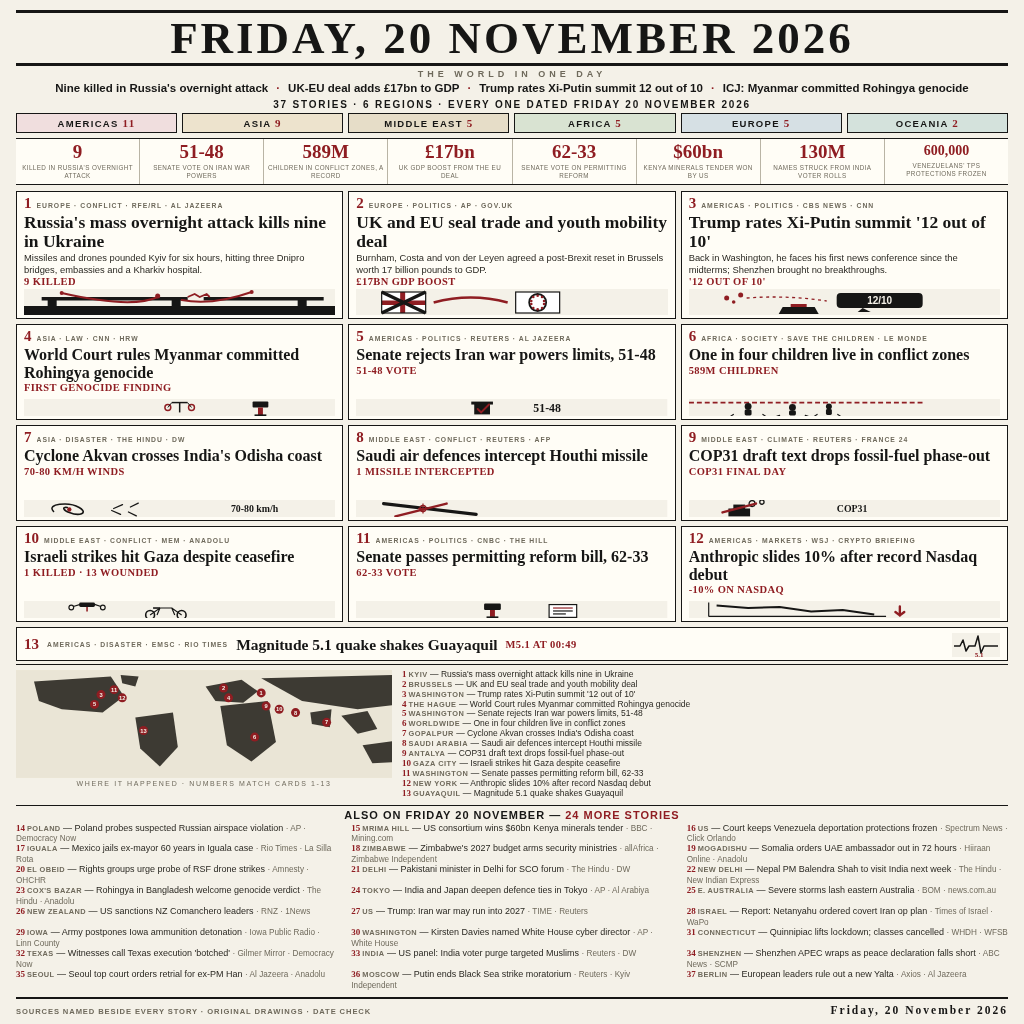
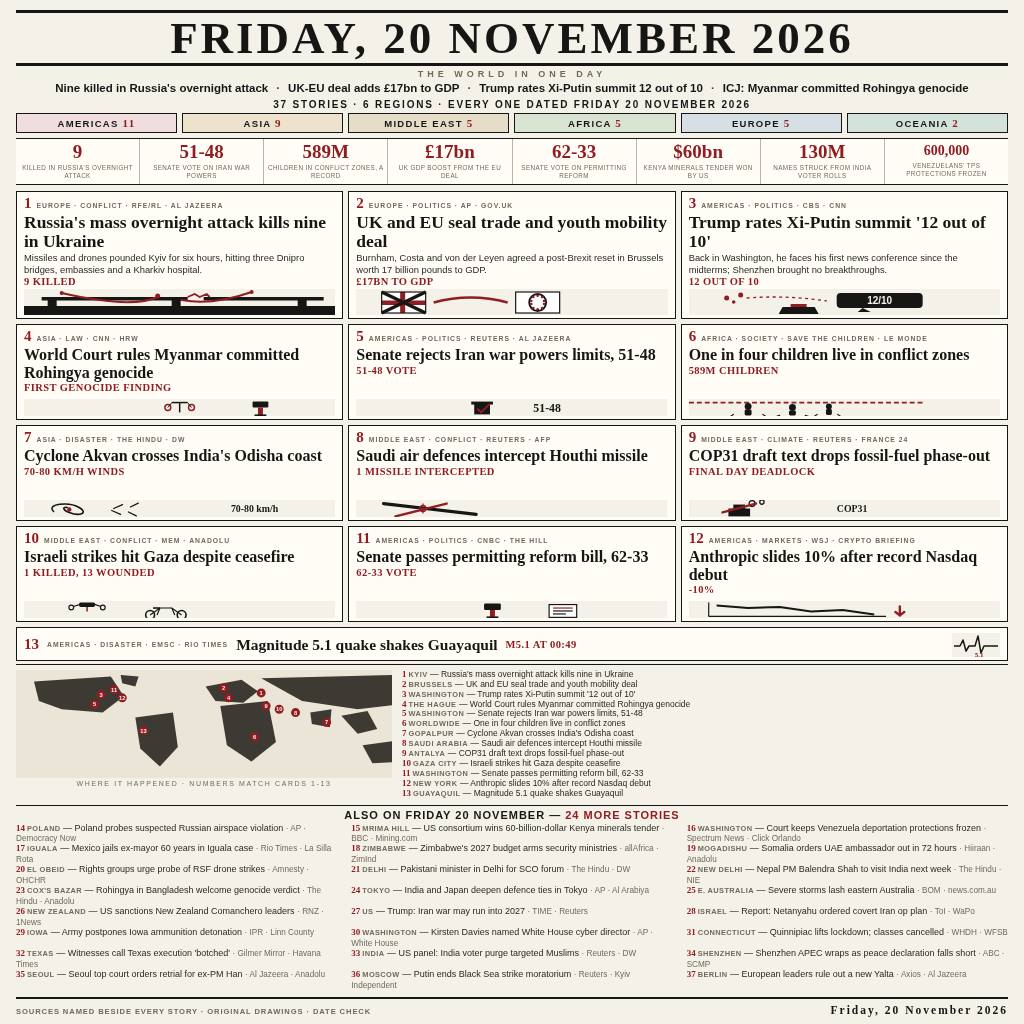
align page labels with enriched data; re-render entry.png

diff --git a/app/index.html b/app/index.html
@@ -156,16 +156,16 @@
       <div class="head"><span class="num">2</span><span class="kick">Europe &#183; Politics &#183; AP &#183; GOV.UK</span></div>
       <h2>UK and EU seal trade and youth mobility deal</h2>
       <p>Burnham, Costa and von der Leyen agreed a post-Brexit reset in Brussels worth 17 billion pounds to GDP.</p>
-      <div class="spec">&#163;17BN GDP BOOST</div>
+      <div class="spec">&#163;17BN TO GDP</div>
       <div class="art"><svg viewBox="0 0 316 26" preserveAspectRatio="xMidYMid slice"><rect width="316" height="26" fill="#f4f1e8"/><rect x="28" y="3" width="44" height="21" fill="#fff"/><rect x="28" y="11.5" width="44" height="4.5" fill="#8f1d22"/><rect x="46.5" y="3" width="5" height="21" fill="#8f1d22"/><path d="M28 3 l44 21 M72 3 l-44 21" stroke="#161615" stroke-width="3.5"/><rect x="28" y="3" width="44" height="21" fill="none" stroke="#161615" stroke-width="1.2"/><path d="M80 13.5 C104 7 130 7 154 13.5" stroke="#8f1d22" stroke-width="2.5" fill="none"/><rect x="162" y="3" width="44" height="21" fill="#fff"/><rect x="162" y="3" width="44" height="21" fill="none" stroke="#161615" stroke-width="1.2"/><circle cx="184" cy="13.5" r="8.5" fill="none" stroke="#161615" stroke-width="1.8"/><g fill="#8f1d22"><circle cx="184" cy="6.8" r="1.3"/><circle cx="188.4" cy="8" r="1.3"/><circle cx="190.4" cy="12" r="1.3"/><circle cx="190.4" cy="15" r="1.3"/><circle cx="188.4" cy="19" r="1.3"/><circle cx="184" cy="20.2" r="1.3"/><circle cx="179.6" cy="19" r="1.3"/><circle cx="177.6" cy="15" r="1.3"/><circle cx="177.6" cy="12" r="1.3"/><circle cx="179.6" cy="8" r="1.3"/></g></svg></div>
     </div>
 
     <!-- 3 -->
     <div class="card lead">
-      <div class="head"><span class="num">3</span><span class="kick">Americas &#183; Politics &#183; CBS News &#183; CNN</span></div>
+      <div class="head"><span class="num">3</span><span class="kick">Americas &#183; Politics &#183; CBS &#183; CNN</span></div>
       <h2>Trump rates Xi-Putin summit '12 out of 10'</h2>
       <p>Back in Washington, he faces his first news conference since the midterms; Shenzhen brought no breakthroughs.</p>
-      <div class="spec">'12 OUT OF 10'</div>
+      <div class="spec">12 OUT OF 10</div>
       <div class="art"><svg viewBox="0 0 316 26" preserveAspectRatio="xMidYMid slice"><rect width="316" height="26" fill="#f4f1e8"/><path d="M96 18 L128 18 L132 25 L92 25 Z" fill="#161615"/><rect x="104" y="15" width="16" height="3" fill="#8f1d22"/><rect x="150" y="4" width="86" height="15" rx="4" fill="#161615"/><path d="M176 19 L171 23 L184 23 Z" fill="#161615"/><text x="193" y="15" font-family="Arial" font-size="10" font-weight="bold" fill="#f4f1e8" text-anchor="middle">12/10</text><g fill="#8f1d22"><circle cx="40" cy="9" r="2.5"/><circle cx="54" cy="6" r="2.5"/><circle cx="47" cy="13" r="1.8"/></g><path d="M60 9 q40 -3 80 3" stroke="#8f1d22" stroke-width="1.3" stroke-dasharray="3 3.5" fill="none"/></svg></div>
     </div>
 
@@ -213,7 +213,7 @@
     <div class="card">
       <div class="head"><span class="num">9</span><span class="kick">Middle East &#183; Climate &#183; Reuters &#183; France 24</span></div>
       <h2>COP31 draft text drops fossil-fuel phase-out</h2>
-      <div class="spec">COP31 FINAL DAY</div>
+      <div class="spec">FINAL DAY DEADLOCK</div>
       <div class="art"><svg viewBox="0 0 316 18" preserveAspectRatio="xMidYMid slice"><rect width="316" height="18" fill="#f4f1e8"/><rect x="40" y="9" width="22" height="8" fill="#161615"/><rect x="45" y="5" width="12" height="6" fill="#161615"/><circle cx="64" cy="4" r="3" fill="none" stroke="#161615" stroke-width="1.3"/><circle cx="74" cy="2.5" r="2.2" fill="none" stroke="#161615" stroke-width="1.3"/><line x1="34" y1="13" x2="68" y2="4" stroke="#8f1d22" stroke-width="2.4" stroke-linecap="round"/><text x="150" y="13" font-family="Georgia" font-size="10" font-weight="bold" fill="#161615">COP31</text></svg></div>
     </div>
 
@@ -221,7 +221,7 @@
     <div class="card">
       <div class="head"><span class="num">10</span><span class="kick">Middle East &#183; Conflict &#183; MEM &#183; Anadolu</span></div>
       <h2>Israeli strikes hit Gaza despite ceasefire</h2>
-      <div class="spec">1 KILLED &#183; 13 WOUNDED</div>
+      <div class="spec">1 KILLED, 13 WOUNDED</div>
       <div class="art"><svg viewBox="0 0 316 18" preserveAspectRatio="xMidYMid slice"><rect width="316" height="18" fill="#f4f1e8"/><rect x="56" y="2" width="16" height="4.5" rx="1.5" fill="#161615"/><line x1="58" y1="3.5" x2="50" y2="6" stroke="#161615" stroke-width="1.2"/><line x1="71" y1="3.5" x2="78" y2="6" stroke="#161615" stroke-width="1.2"/><circle cx="48" cy="7" r="2.4" fill="none" stroke="#161615" stroke-width="1.2"/><circle cx="80" cy="7" r="2.4" fill="none" stroke="#161615" stroke-width="1.2"/><line x1="64" y1="6.5" x2="64" y2="11" stroke="#8f1d22" stroke-width="1.6"/><circle cx="128" cy="14.5" r="4.5" fill="none" stroke="#161615" stroke-width="1.6"/><circle cx="160" cy="14.5" r="4.5" fill="none" stroke="#161615" stroke-width="1.6"/><path d="M128 14.5 L138 7.5 L150 7.5 L160 14.5 M138 7.5 L135 14.5 M150 7.5 L153 14.5" stroke="#161615" stroke-width="1.2" fill="none"/><line x1="138" y1="7.5" x2="131" y2="7.5" stroke="#161615" stroke-width="1.6"/></svg></div>
     </div>
 
@@ -237,7 +237,7 @@
     <div class="card">
       <div class="head"><span class="num">12</span><span class="kick">Americas &#183; Markets &#183; WSJ &#183; Crypto Briefing</span></div>
       <h2>Anthropic slides 10% after record Nasdaq debut</h2>
-      <div class="spec">-10% ON NASDAQ</div>
+      <div class="spec">-10%</div>
       <div class="art"><svg viewBox="0 0 316 18" preserveAspectRatio="xMidYMid slice"><rect width="316" height="18" fill="#f4f1e8"/><line x1="20" y1="2" x2="20" y2="16" stroke="#161615" stroke-width="1.2"/><line x1="20" y1="16" x2="200" y2="16" stroke="#161615" stroke-width="1.2"/><polyline points="28,5 60,7.5 92,6.5 124,11 156,9.5 188,14" fill="none" stroke="#161615" stroke-width="2" stroke-linejoin="round"/><path d="M214 6 L214 15 M214 15 l-4.5 -3.5 M214 15 l4.5 -3.5" stroke="#8f1d22" stroke-width="2.4" fill="none" stroke-linecap="round" stroke-linejoin="round"/></svg></div>
     </div>
 
@@ -308,26 +308,26 @@
     <div class="cap">Also on Friday 20 November &#8212; <em>24 more stories</em></div>
     <div class="dense">
       <div class="ditem"><span class="n">14</span><span class="l">Poland</span> &#8212; Poland probes suspected Russian airspace violation <span class="s">&#183; AP &#183; Democracy Now</span></div>
-      <div class="ditem"><span class="n">15</span><span class="l">Mrima Hill</span> &#8212; US consortium wins $60bn Kenya minerals tender <span class="s">&#183; BBC &#183; Mining.com</span></div>
-      <div class="ditem"><span class="n">16</span><span class="l">US</span> &#8212; Court keeps Venezuela deportation protections frozen <span class="s">&#183; Spectrum News &#183; Click Orlando</span></div>
+      <div class="ditem"><span class="n">15</span><span class="l">Mrima Hill</span> &#8212; US consortium wins 60-billion-dollar Kenya minerals tender <span class="s">&#183; BBC &#183; Mining.com</span></div>
+      <div class="ditem"><span class="n">16</span><span class="l">Washington</span> &#8212; Court keeps Venezuela deportation protections frozen <span class="s">&#183; Spectrum News &#183; Click Orlando</span></div>
       <div class="ditem"><span class="n">17</span><span class="l">Iguala</span> &#8212; Mexico jails ex-mayor 60 years in Iguala case <span class="s">&#183; Rio Times &#183; La Silla Rota</span></div>
-      <div class="ditem"><span class="n">18</span><span class="l">Zimbabwe</span> &#8212; Zimbabwe's 2027 budget arms security ministries <span class="s">&#183; allAfrica &#183; Zimbabwe Independent</span></div>
-      <div class="ditem"><span class="n">19</span><span class="l">Mogadishu</span> &#8212; Somalia orders UAE ambassador out in 72 hours <span class="s">&#183; Hiiraan Online &#183; Anadolu</span></div>
+      <div class="ditem"><span class="n">18</span><span class="l">Zimbabwe</span> &#8212; Zimbabwe's 2027 budget arms security ministries <span class="s">&#183; allAfrica &#183; ZimInd</span></div>
+      <div class="ditem"><span class="n">19</span><span class="l">Mogadishu</span> &#8212; Somalia orders UAE ambassador out in 72 hours <span class="s">&#183; Hiiraan &#183; Anadolu</span></div>
       <div class="ditem"><span class="n">20</span><span class="l">El Obeid</span> &#8212; Rights groups urge probe of RSF drone strikes <span class="s">&#183; Amnesty &#183; OHCHR</span></div>
       <div class="ditem"><span class="n">21</span><span class="l">Delhi</span> &#8212; Pakistani minister in Delhi for SCO forum <span class="s">&#183; The Hindu &#183; DW</span></div>
-      <div class="ditem"><span class="n">22</span><span class="l">New Delhi</span> &#8212; Nepal PM Balendra Shah to visit India next week <span class="s">&#183; The Hindu &#183; New Indian Express</span></div>
+      <div class="ditem"><span class="n">22</span><span class="l">New Delhi</span> &#8212; Nepal PM Balendra Shah to visit India next week <span class="s">&#183; The Hindu &#183; NIE</span></div>
       <div class="ditem"><span class="n">23</span><span class="l">Cox's Bazar</span> &#8212; Rohingya in Bangladesh welcome genocide verdict <span class="s">&#183; The Hindu &#183; Anadolu</span></div>
       <div class="ditem"><span class="n">24</span><span class="l">Tokyo</span> &#8212; India and Japan deepen defence ties in Tokyo <span class="s">&#183; AP &#183; Al Arabiya</span></div>
       <div class="ditem"><span class="n">25</span><span class="l">E. Australia</span> &#8212; Severe storms lash eastern Australia <span class="s">&#183; BOM &#183; news.com.au</span></div>
-      <div class="ditem"><span class="n">26</span><span class="l">New Zealand</span> &#8212; US sanctions NZ Comanchero leaders <span class="s">&#183; RNZ &#183; 1News</span></div>
+      <div class="ditem"><span class="n">26</span><span class="l">New Zealand</span> &#8212; US sanctions New Zealand Comanchero leaders <span class="s">&#183; RNZ &#183; 1News</span></div>
       <div class="ditem"><span class="n">27</span><span class="l">US</span> &#8212; Trump: Iran war may run into 2027 <span class="s">&#183; TIME &#183; Reuters</span></div>
-      <div class="ditem"><span class="n">28</span><span class="l">Israel</span> &#8212; Report: Netanyahu ordered covert Iran op plan <span class="s">&#183; Times of Israel &#183; WaPo</span></div>
-      <div class="ditem"><span class="n">29</span><span class="l">Iowa</span> &#8212; Army postpones Iowa ammunition detonation <span class="s">&#183; Iowa Public Radio &#183; Linn County</span></div>
+      <div class="ditem"><span class="n">28</span><span class="l">Israel</span> &#8212; Report: Netanyahu ordered covert Iran op plan <span class="s">&#183; ToI &#183; WaPo</span></div>
+      <div class="ditem"><span class="n">29</span><span class="l">Iowa</span> &#8212; Army postpones Iowa ammunition detonation <span class="s">&#183; IPR &#183; Linn County</span></div>
       <div class="ditem"><span class="n">30</span><span class="l">Washington</span> &#8212; Kirsten Davies named White House cyber director <span class="s">&#183; AP &#183; White House</span></div>
       <div class="ditem"><span class="n">31</span><span class="l">Connecticut</span> &#8212; Quinnipiac lifts lockdown; classes cancelled <span class="s">&#183; WHDH &#183; WFSB</span></div>
-      <div class="ditem"><span class="n">32</span><span class="l">Texas</span> &#8212; Witnesses call Texas execution 'botched' <span class="s">&#183; Gilmer Mirror &#183; Democracy Now</span></div>
+      <div class="ditem"><span class="n">32</span><span class="l">Texas</span> &#8212; Witnesses call Texas execution 'botched' <span class="s">&#183; Gilmer Mirror &#183; Havana Times</span></div>
       <div class="ditem"><span class="n">33</span><span class="l">India</span> &#8212; US panel: India voter purge targeted Muslims <span class="s">&#183; Reuters &#183; DW</span></div>
-      <div class="ditem"><span class="n">34</span><span class="l">Shenzhen</span> &#8212; Shenzhen APEC wraps as peace declaration falls short <span class="s">&#183; ABC News &#183; SCMP</span></div>
+      <div class="ditem"><span class="n">34</span><span class="l">Shenzhen</span> &#8212; Shenzhen APEC wraps as peace declaration falls short <span class="s">&#183; ABC &#183; SCMP</span></div>
       <div class="ditem"><span class="n">35</span><span class="l">Seoul</span> &#8212; Seoul top court orders retrial for ex-PM Han <span class="s">&#183; Al Jazeera &#183; Anadolu</span></div>
       <div class="ditem"><span class="n">36</span><span class="l">Moscow</span> &#8212; Putin ends Black Sea strike moratorium <span class="s">&#183; Reuters &#183; Kyiv Independent</span></div>
       <div class="ditem"><span class="n">37</span><span class="l">Berlin</span> &#8212; European leaders rule out a new Yalta <span class="s">&#183; Axios &#183; Al Jazeera</span></div>
